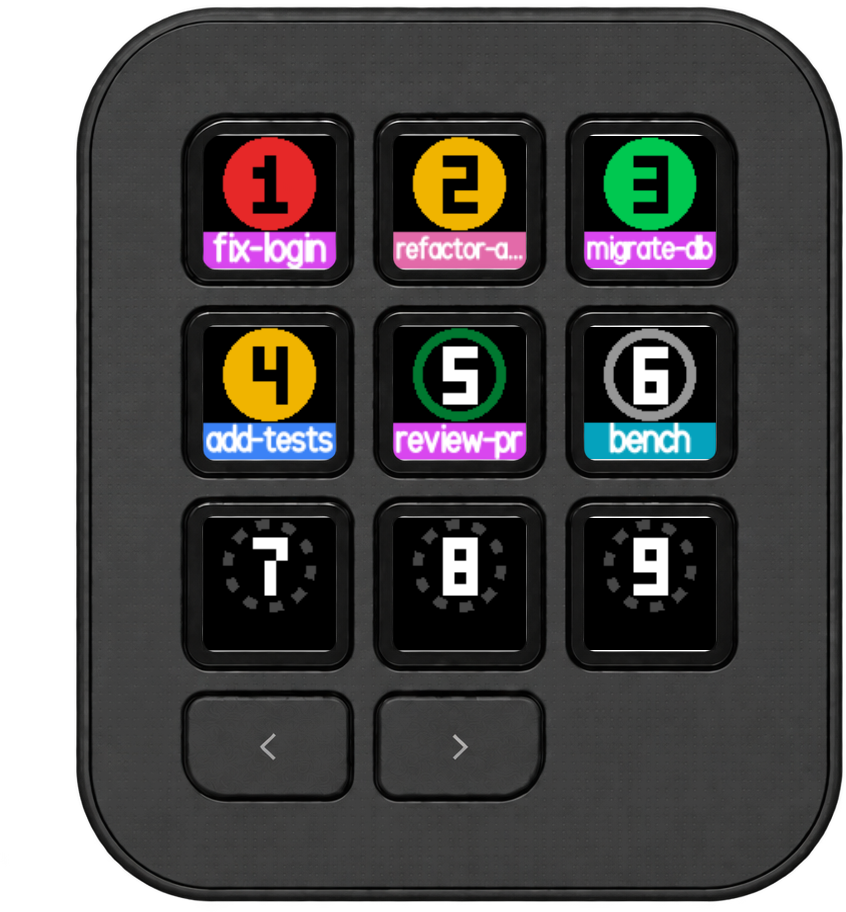
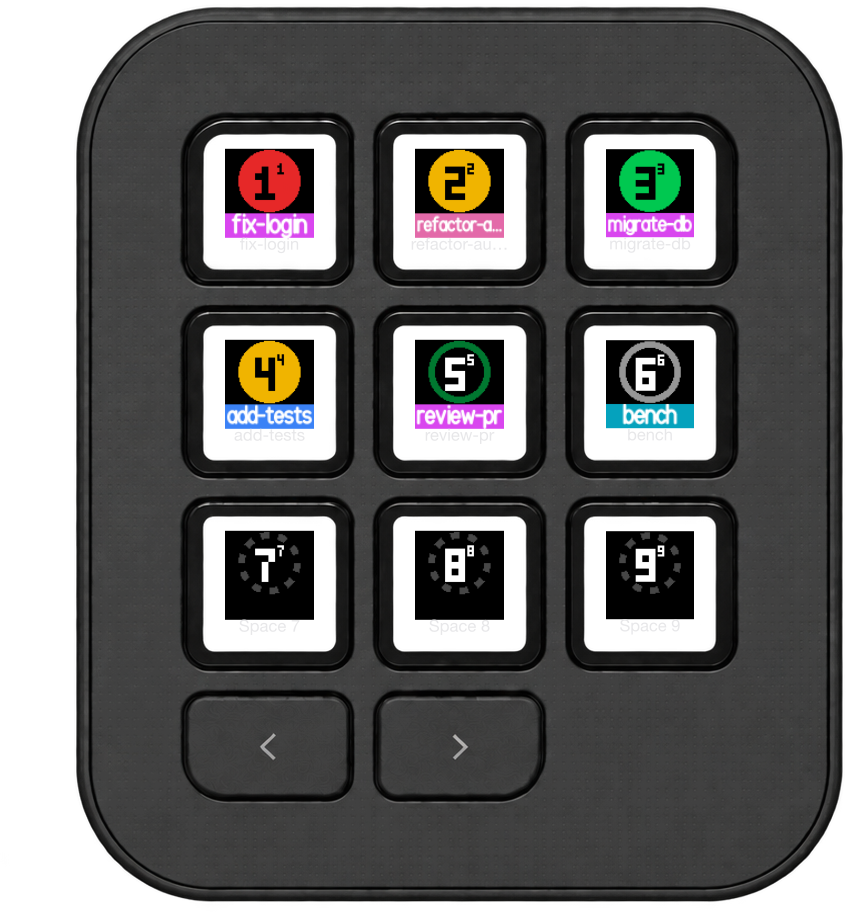
fix: restore tab and session details in previews

diff --git a/tools/Images/Deck.cs b/tools/Images/Deck.cs
@@ -38,7 +38,12 @@ static class Deck
     // `Project` is null for the old-style ring-plus-label approximation (used
     // by the state legend strip) and non-null (possibly empty) for the new
     // composite key face, drawn by the same FacePng.Draw() the device uses.
-    private sealed record Key(string Status, string Label, int? Tab = null, string? Project = null);
+    internal sealed record Key(
+        string Status,
+        string Label,
+        int? Tab = null,
+        int? TabNumber = null,
+        string? Project = null);
 
     private sealed record Window(int X, int Y, int Width, int Height);
 
@@ -46,15 +51,15 @@ static class Deck
     // agents at work, one turn just finished, and three slots still empty.
     private static readonly Key[] DemoDeck =
     [
-        new("blocked", "fix-login", Tab: 1, Project: "fix-login"),
-        new("working", "refactor-auth", Tab: 2, Project: "refactor-auth"),
-        new("done", "migrate-db", Tab: 3, Project: "migrate-db"),
-        new("working", "add-tests", Tab: 4, Project: "add-tests"),
-        new("idle", "review-pr", Tab: 5, Project: "review-pr"),
-        new("unknown", "bench", Tab: 6, Project: "bench"),
-        new("none", "Space 7", Tab: 7, Project: ""),
-        new("none", "Space 8", Tab: 8, Project: ""),
-        new("none", "Space 9", Tab: 9, Project: ""),
+        new("blocked", "fix-login", Tab: 1, TabNumber: 1, Project: "fix-login"),
+        new("working", "refactor-auth", Tab: 2, TabNumber: 2, Project: "refactor-auth"),
+        new("done", "migrate-db", Tab: 3, TabNumber: 3, Project: "migrate-db"),
+        new("working", "add-tests", Tab: 4, TabNumber: 4, Project: "add-tests"),
+        new("idle", "review-pr", Tab: 5, TabNumber: 5, Project: "review-pr"),
+        new("unknown", "bench", Tab: 6, TabNumber: 6, Project: "bench"),
+        new("none", "Space 7", Tab: 7, TabNumber: 7, Project: ""),
+        new("none", "Space 8", Tab: 8, TabNumber: 8, Project: ""),
+        new("none", "Space 9", Tab: 9, TabNumber: 9, Project: ""),
     ];
 
     private static readonly Key[] States =
@@ -89,18 +94,19 @@ static class Deck
 
     // The new composite key face (ring, tab number/superscript and project
     // band), drawn by FacePng.Draw() — the same code the device uses — and
-    // cached per distinct (status, tab, project) combination.
-    private static readonly Dictionary<string, string> Faces = [];
+    // cached per distinct (status, tab, tab position, project) combination.
+    private static readonly Dictionary<(string Status, int? Tab, int? TabNumber, string? Project), string> Faces = [];
 
-    private static string FaceImage(Key key)
+    internal static string FaceImage(Key key)
     {
-        var cacheKey = $"{key.Status}|{key.Tab}|{key.Project}";
+        var cacheKey = (key.Status, key.Tab, key.TabNumber, key.Project);
         if (!Faces.TryGetValue(cacheKey, out var cached))
         {
             var (rgb, style) = TileFaces.StyleFor(key.Status);
             var spec = new FaceSpec
             {
                 Tab = key.Tab,
+                TabNumber = key.Tab is null ? null : key.TabNumber,
                 Project = key.Project ?? "",
                 RingRgb = rgb,
                 RingStyle = style,
@@ -235,30 +241,30 @@ static class Deck
     // One key face, `scale` pixels per design unit, with its top-left corner at
     // (x, y). An empty slot keeps the space its label would occupy so the rows
     // stay aligned, which is what the device does too.
-    private static string KeyFace(Key key, double x, double y, double scale, bool rounded = false)
+    internal static string KeyFace(Key key, double x, double y, double scale, bool rounded = false)
     {
         var size = TileSize * scale;
-        if (key.Project is not null)
-        {
-            // A full 80x80 key face, drawn by the same FacePng.Draw() the
-            // device uses (tab, state ring and the project's own band
-            // colour), not approximated.
-            var facePixels = (int)Math.Round(size);
-            return $"""
-
-                  <g transform="translate({N(x)},{N(y)})">
-                    <image x="0" y="0" width="{facePixels}" height="{facePixels}" href="{DataUri(FaceImage(key))}"/>
-                  </g>
-                """;
-        }
         var ringPixels = (int)Math.Round(TileFaces.ImageSize * scale);
-        var text = TileFaces.LabelText(key.Label).Trim('', ' ');
-        var plate = rounded
-            ? $"""<rect width="{N(size)}" height="{N(size)}" rx="{N(16 * scale)}" fill="{Face}" stroke="{Bezel}" stroke-width="{N(scale)}"/>"""
-            : $"""<rect width="{N(size)}" height="{N(size)}" fill="{Face}"/>""";
+        var text = key.Project is null
+            ? TileFaces.LabelText(key.Label).Trim('', ' ')
+            : TileFaces.ServiceText(key.Label).Trim('', ' ');
         var label = text.Length == 0
             ? ""
             : $"""<text x="{N(size / 2)}" y="{N(LabelBaseline * scale)}" text-anchor="middle" font-family="{Font}" font-size="{N(LabelSize * scale)}" fill="{LabelColour}">{WebUtility.HtmlEncode(text)}</text>""";
+        if (key.Project is not null)
+        {
+            var facePixels = ringPixels;
+            return $"""
+
+                  <g transform="translate({N(x)},{N(y)})">
+                    <image x="{N((size - facePixels) / 2)}" y="{N(RingTop * scale)}" width="{facePixels}" height="{facePixels}" href="{DataUri(FaceImage(key))}"/>
+                    {label}
+                  </g>
+                """;
+        }
+        var plate = rounded
+            ? $"""<rect width="{N(size)}" height="{N(size)}" rx="{N(16 * scale)}" fill="{Face}" stroke="{Bezel}" stroke-width="{N(scale)}"/>"""
+            : $"""<rect width="{N(size)}" height="{N(size)}" fill="{Face}"/>""";
         return $"""
 
               <g transform="translate({N(x)},{N(y)})">
@@ -353,6 +359,12 @@ static class Deck
     // picture of a real session goes through exactly the code path the device
     // does. Without herdr running every tile would be offline, which says nothing,
     // so that is an error rather than a picture.
+    internal static Key KeyFromTile(Tile tile)
+    {
+        var face = tile.Face;
+        return new Key(tile.Status, tile.ServiceText, face.Tab, face.TabNumber, face.Project);
+    }
+
     private static async Task<Key[]?> LiveDeckAsync()
     {
         var client = new HerdrClient();
@@ -370,7 +382,7 @@ static class Deck
         {
             var tile = new SpaceTile(client, slot);
             tile.Update(snapshot);
-            return new Key(tile.Status, tile.Label, tile.Face.Tab, tile.Face.Project);
+            return KeyFromTile(tile);
         }).ToArray();
     }
 

diff --git a/tests/Herdr.Core.Tests/DeckTests.cs b/tests/Herdr.Core.Tests/DeckTests.cs
@@ -1,0 +1,99 @@
+using Herdr.Images;
+
+namespace Herdr.Tests;
+
+public class DeckTests
+{
+    [Fact]
+    public void CompositeFacePreviewKeepsTheIconAreaAndSessionLabelRow()
+    {
+        var key = new Deck.Key("working", "Fix session!", Tab: 3, TabNumber: 2, Project: "herdr");
+
+        var svg = Deck.KeyFace(key, 0, 0, 1);
+
+        Assert.Contains("x=\"20\" y=\"12\" width=\"80\" height=\"80\"", svg);
+        Assert.Contains("Fix session!", svg);
+        Assert.Contains("<text ", svg);
+    }
+
+    [Fact]
+    public void CompositeFacePreviewIncludesTheTabPositionSuperscript()
+    {
+        var key = new Deck.Key("working", "Fix login", Tab: 3, TabNumber: 2, Project: "herdr");
+        var (rgb, style) = TileFaces.StyleFor("working");
+
+        var png = Convert.FromBase64String(Deck.FaceImage(key));
+        var expected = FacePng.Draw(new FaceSpec
+        {
+            Tab = 3,
+            TabNumber = 2,
+            Project = "herdr",
+            RingRgb = rgb,
+            RingStyle = style,
+            Band = ProjectColor.For("herdr"),
+        });
+
+        Assert.Equal(expected, png);
+    }
+
+    [Fact]
+    public void CompositeFaceCacheDistinguishesTabPositions()
+    {
+        var first = new Deck.Key("working", "", Tab: 3, TabNumber: 1, Project: "herdr");
+        var second = first with { TabNumber = 2 };
+
+        Assert.NotEqual(Deck.FaceImage(first), Deck.FaceImage(second));
+    }
+
+    [Fact]
+    public void LivePreviewUsesSessionServiceTextAndTheTabPosition()
+    {
+        var agent = new Agent
+        {
+            PaneId = "workspace:pane",
+            WorkspaceId = "workspace",
+            TabId = "workspace:tab-2",
+            Kind = "claude",
+            AgentStatus = "working",
+            TerminalTitleStripped = "Fix login",
+        };
+        var snapshot = new Snapshot
+        {
+            Workspaces = new Dictionary<int, Workspace>
+            {
+                [3] = new()
+                {
+                    WorkspaceId = "workspace",
+                    ActiveTabId = "workspace:tab-2",
+                    Number = 3,
+                    Label = "project-name",
+                    AgentStatus = "working",
+                },
+            },
+            Agents = [agent],
+            Recent = [agent],
+            Tabs = new Dictionary<string, int> { ["workspace:tab-2"] = 2 },
+        };
+        var tile = new SpaceTile(new HerdrClient("/nonexistent/herdr.sock"), 3);
+        tile.Update(snapshot);
+
+        var key = Deck.KeyFromTile(tile);
+
+        Assert.Equal("Fix login", key.Label);
+        Assert.Equal(3, key.Tab);
+        Assert.Equal(2, key.TabNumber);
+        Assert.Equal("project-name", key.Project);
+    }
+
+    [Fact]
+    public void StateLegendKeepsItsRingAndLabelApproximation()
+    {
+        var key = new Deck.Key("blocked", "blocked");
+
+        var svg = Deck.KeyFace(key, 0, 0, 1, rounded: true);
+
+        Assert.Contains("<rect ", svg);
+        Assert.Contains("<image ", svg);
+        Assert.Contains("blocked", svg);
+    }
+}
